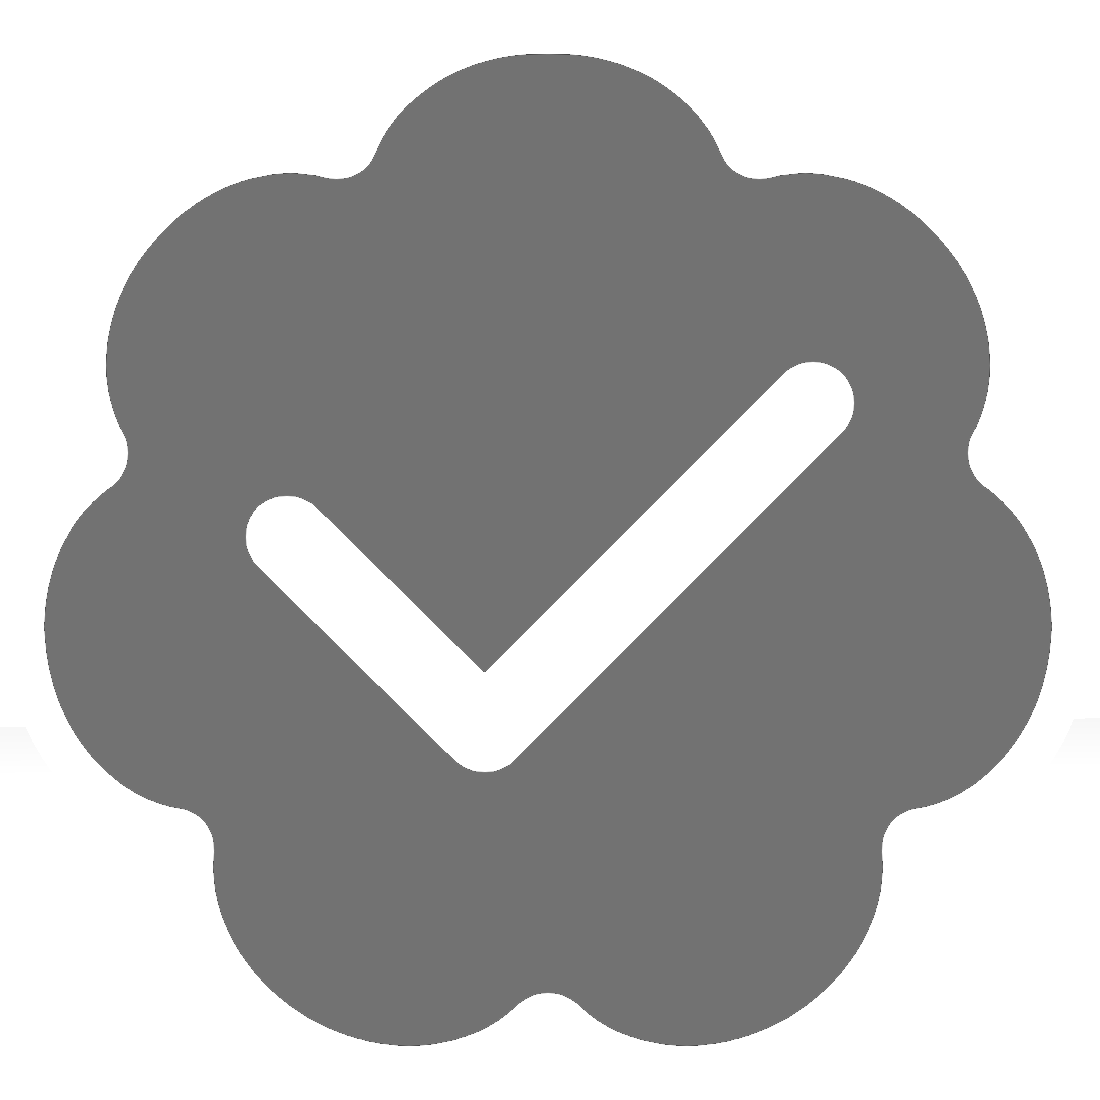
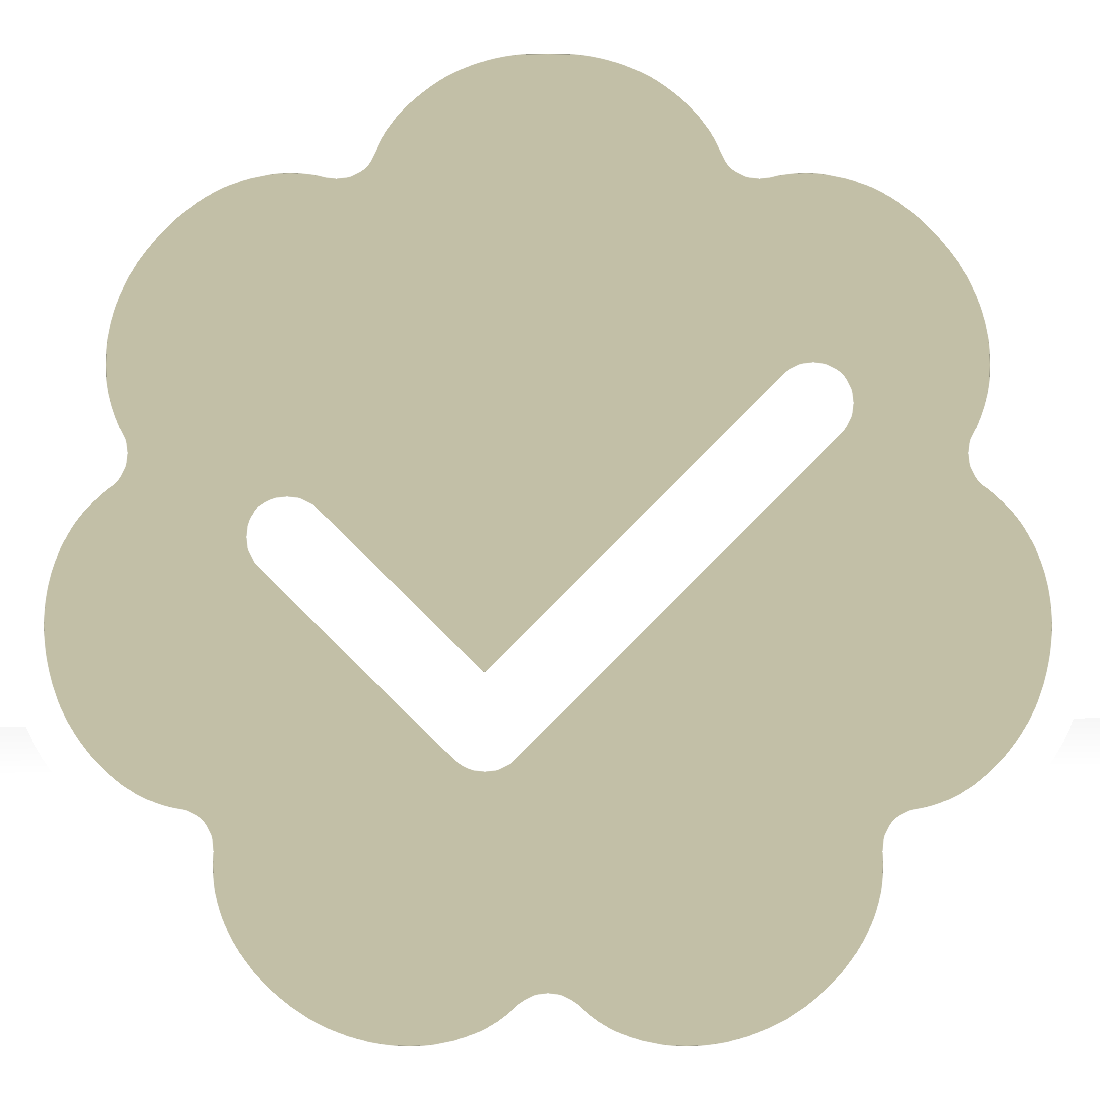
fost2

diff --git a/docs/index.html b/docs/index.html
@@ -19,7 +19,7 @@ body {
   font-family: 'futura';
 }
 a {
-  color: #c2b022;
+  color: #c2bfa7;
   text-decoration: none;
   transition-duration: .5s;
 }
@@ -218,7 +218,7 @@ audio {
   background-position: center center;
   background-size: contain;
   border: double 5px #ffffff;
-  background-color: #727272;
+  background-color: #c2bfa7;
 }
 /* PasswordUnlockBar */
 .PasswordUnlockBar {
@@ -1191,7 +1191,7 @@ li {
             <tr>
               <td>
                 <a href="https://fostmp3s.com/info" target="_blank">
-                  <div style="text-decoration: underline; color: #727272;" alt="Foster Lancaster" title="Foster Lancaster">
+                  <div style="text-decoration: underline; color: #c2bfa7;" alt="Foster Lancaster" title="Foster Lancaster">
                     Foster Lancaster
                   </div>
                 </a>
